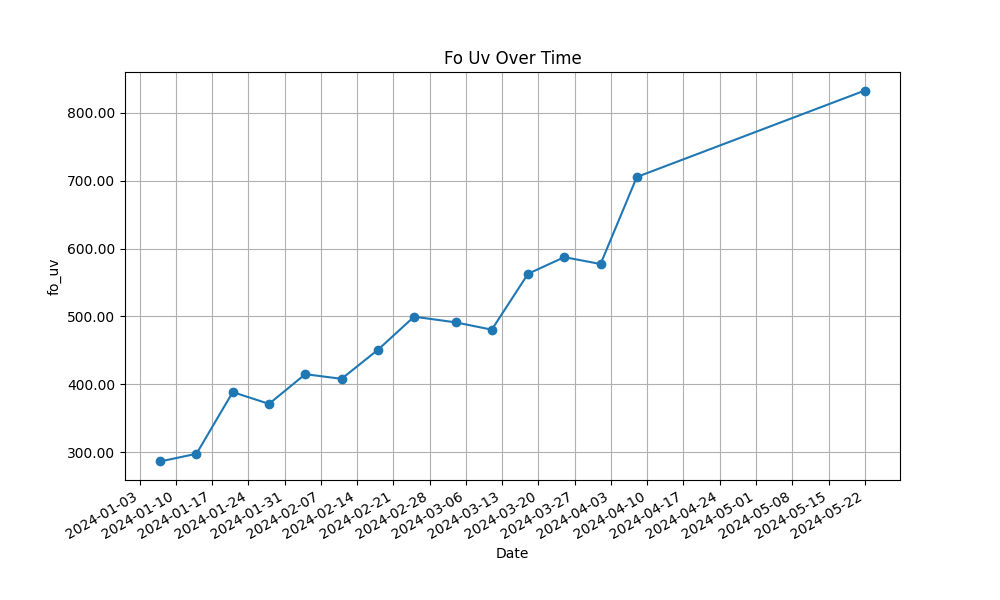
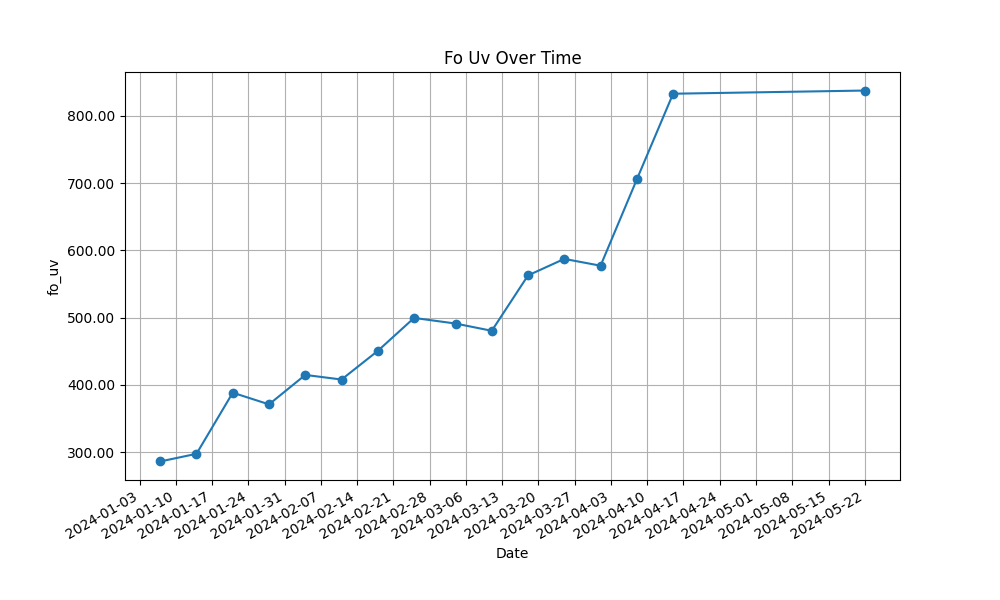
chore: weekly stats update

diff --git a/Data.md b/Data.md
@@ -1,6 +1,6 @@
 # Data
 
-_Generated on **2024-05-22** for data in range **2024-04-07 00:00:00** to **2024-04-15 07:00:00**._
+_Generated on **2024-05-22** for data in range **2024-04-16 00:00:00** to **2024-04-22 07:00:00**._
 
 The schema for the raw data is as follows:
 
@@ -41,11 +41,11 @@ And three additional columns for run metadata:
 
 | Job Date   | Range Start   | Range End     | Number Of Devices | Cell Id Mode    | Total Precipitation | Temperature | Humidity | Precipitation Accumulated |
 |------------|---------------|---------------|-------------------|-----------------|---------------------|-------------|----------|---------------------------|
-| 2024-05-22 | 1712448000000 | 1713164400000 | 5020              | 871eda743ffffff | 143320857919.118    | 15.641      | 67.683   | 1002.887                  |
+| 2024-05-22 | 1713225600000 | 1713769200000 | 5050              | 871eda743ffffff | 115145002238.506    | 12.456      | 70.934   | 1054.339                  |
 
 | Wind Speed | Wind Gust | Wind Direction | Illuminance | Solar Irradiance | Fo Uv   | Uv Index | Precipitation Rate | Pressure |
 |------------|-----------|----------------|-------------|------------------|---------|----------|--------------------|----------|
-| 0.957      | 1.342     | 185.869        | 341424.430  | 2688.661         | 832.969 | 1.049    | 0.054              | 993.208  |
+| 0.932      | 1.323     | 190.762        | 349498.295  | 2752.125         | 837.694 | 1.004    | 0.080              | 990.812  |
 
 ## Precipitation accumulated maps
 
